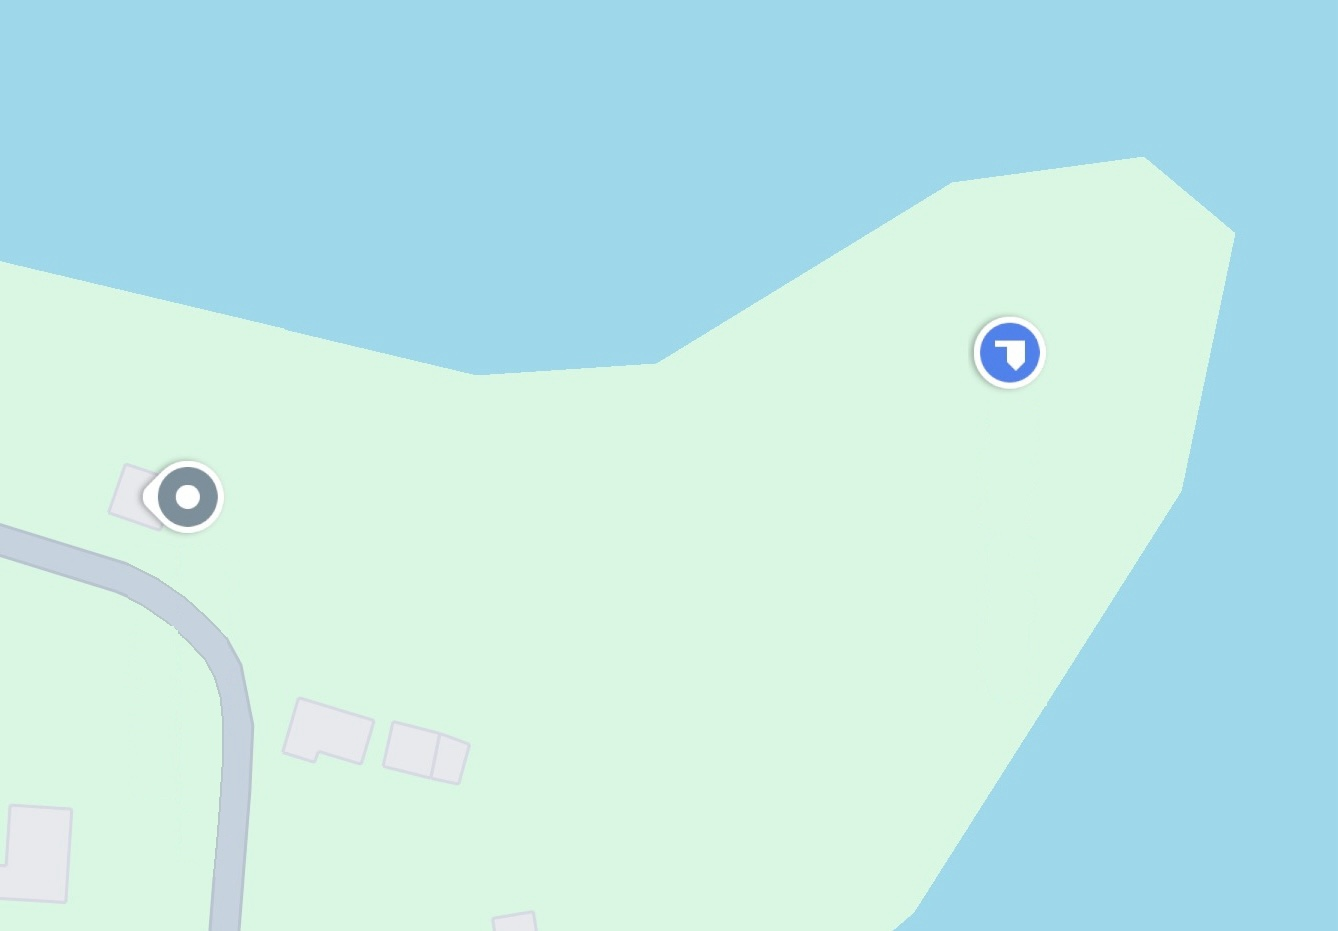
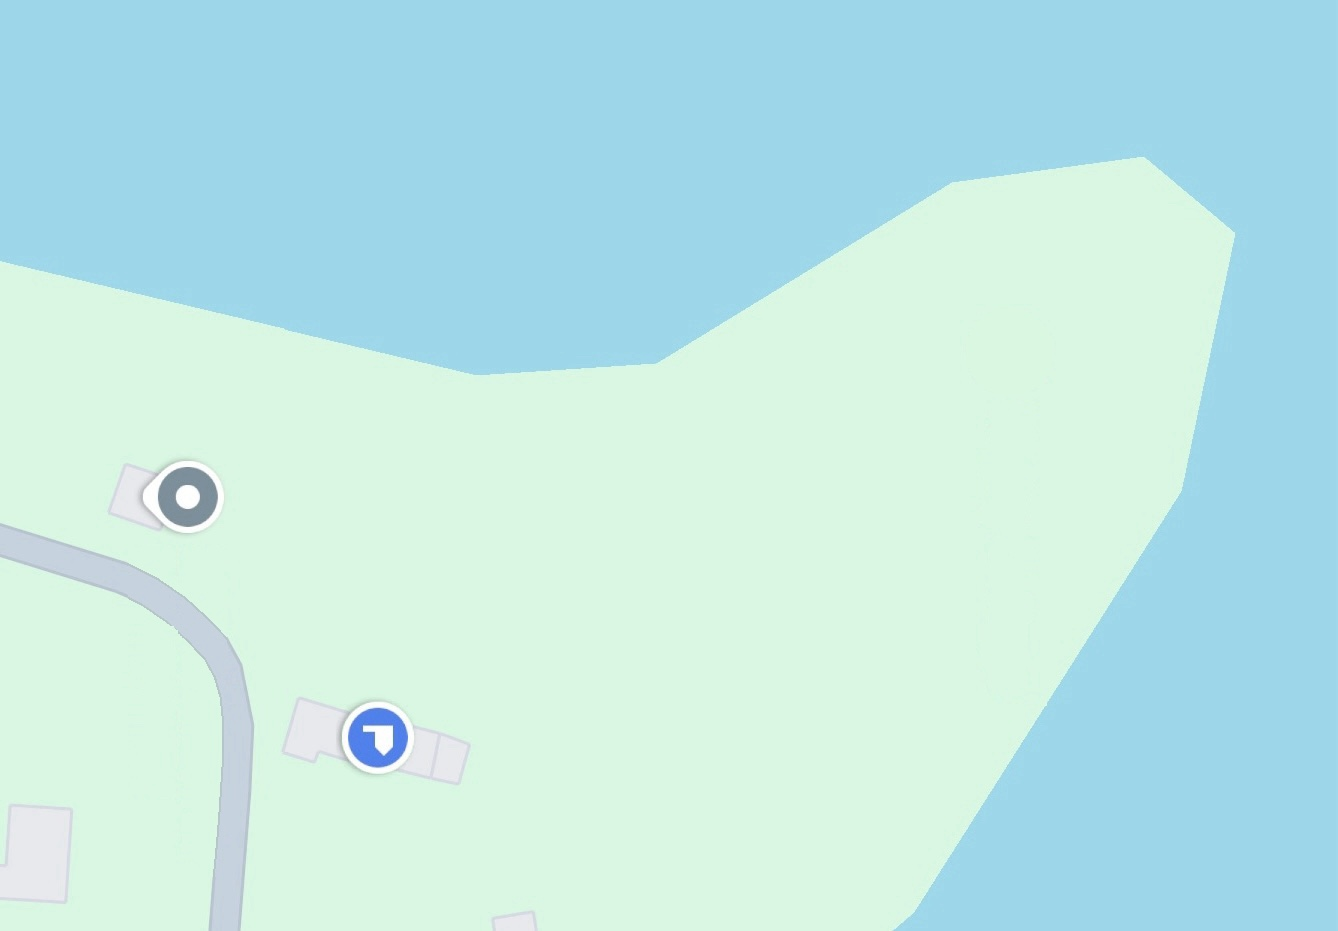
fix: move Migley pin onto its house and garage on the point map

Changed region(s): [[0.7048, 0.3426, 0.7967, 0.4361], [0.2451, 0.7476, 0.3064, 0.841]]

diff --git a/site/projects/septic.html b/site/projects/septic.html
@@ -31,7 +31,7 @@
 <li>Searenity is 100% inside the shoreline zone. It has nowhere suitable for a code-compliant system.</li>
 <li>Most of Migley is in the shoreline zone too, but there is a small area outside it.</li>
 </ul>
-<figure class="wide"><a href="../images/septic/migley-point-map.jpg"><img src="../images/septic/migley-point-map.jpg" width="1338" height="931" loading="lazy" alt="Map of the point, with water on three sides. A gray pin marks Searenity beside the road; a blue pin out toward the tip of the point marks Migley."></a><figcaption>Searenity (gray pin) and Migley (blue pin) on the point.</figcaption></figure>
+<figure class="wide"><a href="../images/septic/migley-point-map.jpg"><img src="../images/septic/migley-point-map.jpg" width="1338" height="931" loading="lazy" alt="Map of the point, with water on three sides. A gray pin marks Searenity; a blue pin marks Migley on its house and garage, on the water side of the road."></a><figcaption>Searenity (gray pin) and Migley (blue pin) on the point.</figcaption></figure>
 <figure class="wide"><a href="../images/septic-property-map.jpg"><img src="../images/septic-property-map.jpg" width="1630" height="991" loading="lazy" alt="Survey map of Searenity and Migley, with a red note marking the small area of Migley outside the shoreline setback zone."></a><figcaption>The small area of Migley outside the shoreline setback zone.</figcaption></figure>
 <p>We have also explored building a “Fellow-Shop Hall” on Migley. Knowing the restrictions on where a septic system can go, it felt prudent to get septic sorted out first, keeping future options open for either property.</p>
 </section><section class="chapter" id="design"><p class="kicker">Step 1 · Summer 2024</p><h2>Designing the system</h2>
